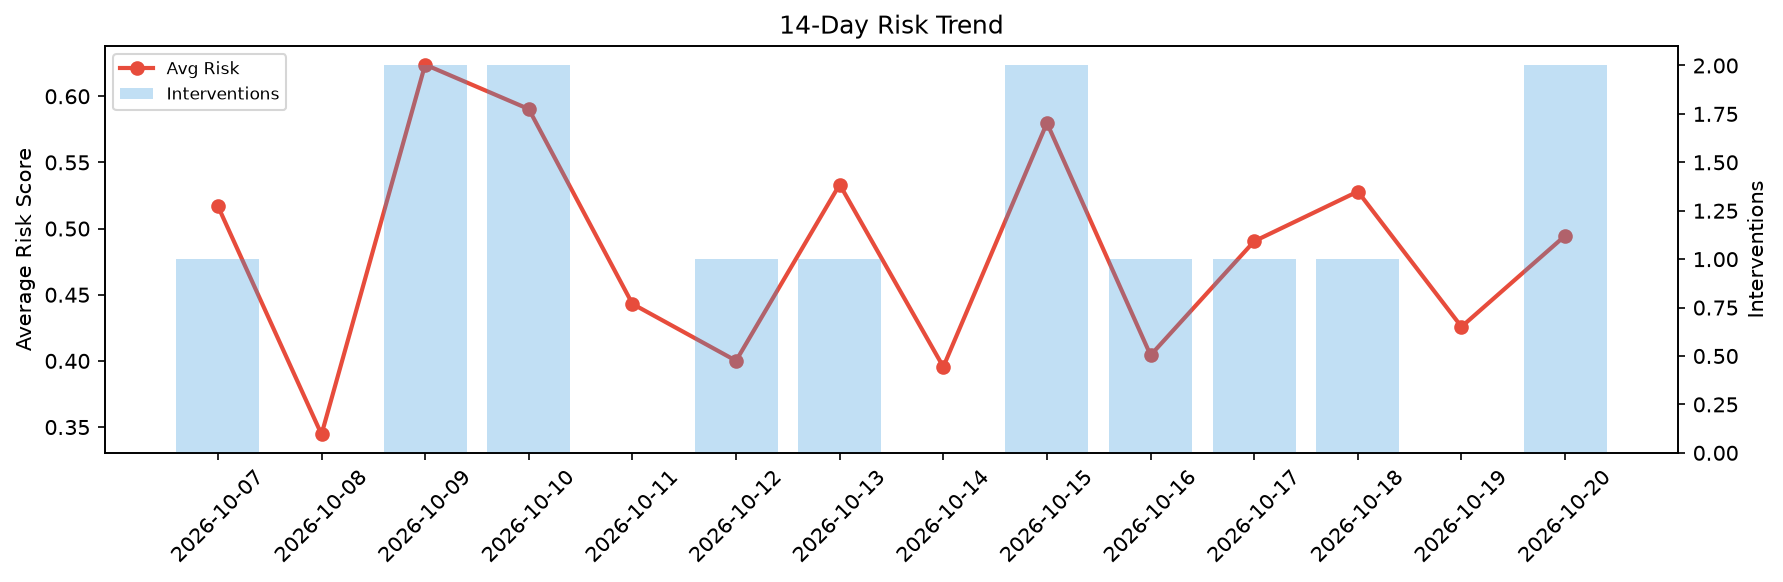
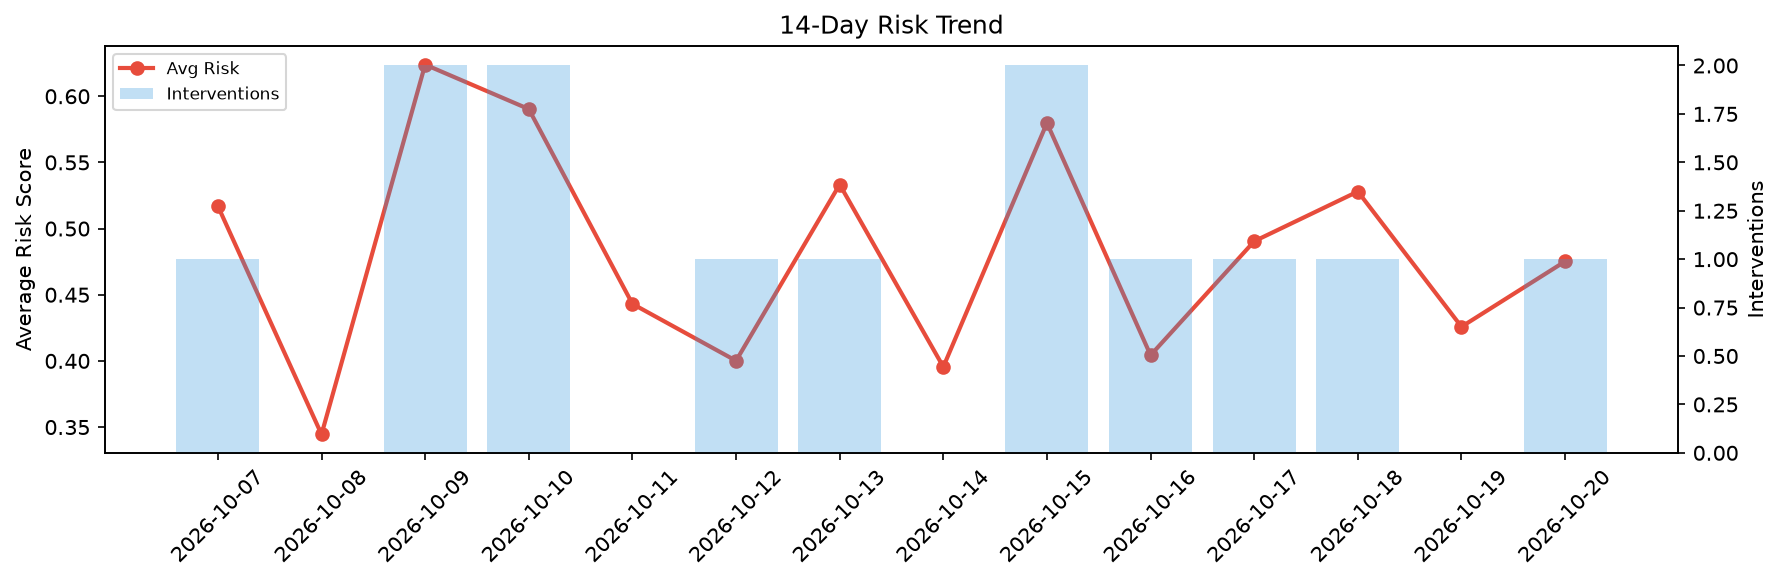
agent-improvement: daily cycle 2026-10-20T23:09

Changed region(s): [[0.8329, 0.0928, 0.9254, 0.5258], [0.802, 0.5258, 0.8329, 0.5567]]

diff --git a/logs/2026-10-20.md b/logs/2026-10-20.md
@@ -1,6 +1,6 @@
 # Agent Improvement Report — 2026-10-20
 
-**Cycle ID:** `5e9690e3` | **Avg Risk:** 0.4946 | **Interventions:** 2/4
+**Cycle ID:** `3eea48c9` | **Avg Risk:** 0.4752 | **Interventions:** 1/4
 
 ![Dashboard](2026-10-20_dashboard.png)
 
@@ -10,18 +10,18 @@
 
 | Domain | Risk Score | Decision | Alerts |
 |--------|-----------|----------|--------|
-| code_review | 0.7299 | intervene | duplication |
-| incident_response | 0.2763 | monitor | none |
-| data_pipeline | 0.2622 | monitor | none |
-| deployment | 0.7099 | intervene | rollback_rate, canary_error |
+| code_review | 0.5076 | monitor | coverage |
+| incident_response | 0.313 | monitor | none |
+| data_pipeline | 0.6036 | intervene | none |
+| deployment | 0.4766 | monitor | canary_error |
 
 ## Delta vs Yesterday
 
 | Domain | Today | Yesterday | Change |
 |--------|-------|-----------|--------|
-| code_review | 0.7299 | 0.1527 | 📈 378.0% |
-| incident_response | 0.2763 | 0.4779 | 📉 -42.2% |
-| data_pipeline | 0.2622 | 0.584 | 📉 -55.1% |
-| deployment | 0.7099 | 0.4885 | 📈 45.3% |
+| code_review | 0.5076 | 0.1527 | 📈 232.4% |
+| incident_response | 0.313 | 0.4779 | 📉 -34.5% |
+| data_pipeline | 0.6036 | 0.584 | 📈 3.4% |
+| deployment | 0.4766 | 0.4885 | 📉 -2.4% |
 
 **Refinement:** `{'adjustment': 'maintain', 'trend': 'improving', 'window': 4}`
